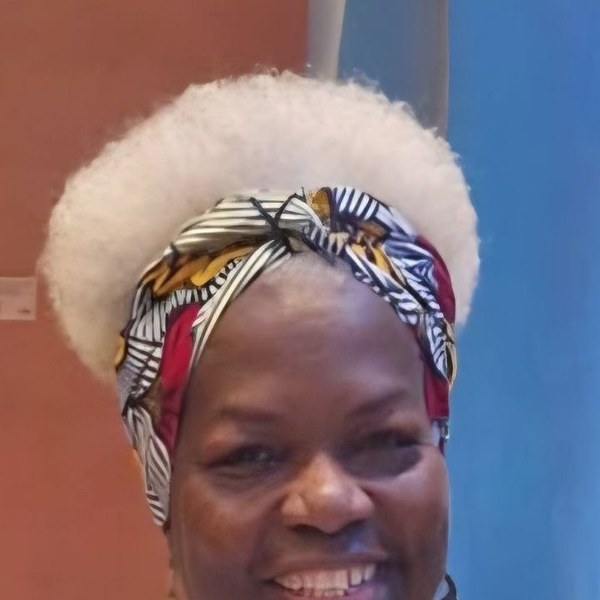
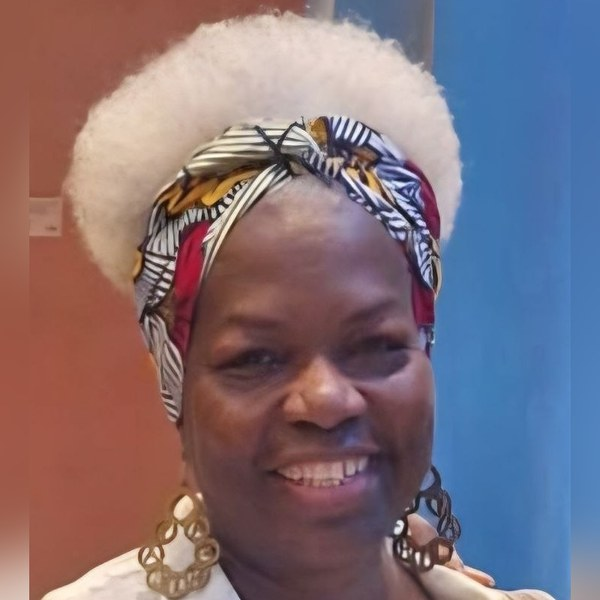
fix: Pam headshot crop (padded to full head), balance founder bio lengths

diff --git a/src/app/(marketing)/about/page.tsx b/src/app/(marketing)/about/page.tsx
@@ -27,8 +27,8 @@ const founders = [
     role: "Co-Founder & Director",
     photo: "/team/pam-rowe.jpg",
     paragraphs: [
-      "Pam Rowe is a leadership adviser, facilitator and organisational development specialist with more than three decades of experience supporting senior leaders, boards and organisations to strengthen leadership, culture and decision-making in complex systems. Her work spans public services, safeguarding partnerships, education and community organisations across the UK.",
-      "An author, she co-founded ADI with a clear conviction that Black professionals deserve developmental spaces that recognise the realities they navigate. Through ADI she works with mid-to-senior leaders on identity-level leadership: distinguishing what belongs to them from what belongs to the systems they operate within, and developing the self-trust, steadiness and authority to lead well.",
+      "Pam Rowe is a leadership adviser, facilitator and organisational development specialist with more than three decades of experience supporting senior leaders, boards and organisations in complex systems, across public services, safeguarding partnerships, education and community organisations in the UK.",
+      "An author, she co-founded ADI with a clear conviction that Black professionals deserve developmental spaces that recognise the realities they navigate. She works with mid-to-senior leaders on identity-level leadership: distinguishing what belongs to them from what belongs to the system.",
     ],
   },
   {
@@ -37,7 +37,7 @@ const founders = [
     photo: "/team/marcia-daigo.jpg",
     paragraphs: [
       "Marcia Daigo is an executive leadership coach, organisational development specialist and published author with over fifteen years' experience across the NHS, public sector and voluntary sector. She partners with senior leaders and leadership teams to navigate complexity, strengthen leadership identity and deliver sustainable organisational change.",
-      "Her coaching goes beyond confidence-building to identity-level development: helping leaders recognise the patterns in how they lead, navigate complex relational and organisational dynamics, and translate insight into purposeful, values-driven action within their systems.",
+      "Her coaching goes beyond confidence-building to identity-level development: helping leaders recognise the patterns in how they lead, navigate complex relational and organisational dynamics, and translate insight into purposeful, values-driven action within their systems and their own lives.",
     ],
   },
 ];

diff --git a/src/lib/event-config.ts b/src/lib/event-config.ts
@@ -52,7 +52,7 @@ export const EVENT = {
       name: "Pam Rowe",
       role: "Co-founder, ADI · Leadership adviser and coach",
       photo: "/team/pam-rowe.jpg",
-      bio: "Thirty years advising senior leaders and boards across public services, safeguarding and education. Pam has sat with Black professionals at exactly this point — the appraisal that turns into an ambush, the restructure, the slow walk to the door — and she has been there herself.",
+      bio: "Thirty years advising senior leaders and boards across public services, safeguarding and education. Pam has sat with Black professionals at exactly this point — the ambush appraisal, the restructure, the slow walk to the door — and has been there herself.",
       testimonial: {
         quote: "Through her balance of lived experience, wisdom, challenge and support, she had a transformative impact on me. The most significant shift has been in my self-esteem.",
         name: "Georgia Chimbani",
@@ -63,7 +63,7 @@ export const EVENT = {
       name: "Marcia Daigo",
       role: "Co-founder, ADI · Executive coach and author",
       photo: "/team/marcia-daigo.jpg",
-      bio: "Executive coach and published author, fifteen years across the NHS and public sector. Marcia works with leaders who have done everything right and still find themselves squeezed: recognise the pattern, fortify yourself before you need to.",
+      bio: "Executive coach and published author, fifteen years across the NHS and public sector. Marcia works with leaders who have done everything right and still find themselves squeezed: name the pattern, fortify yourself before you need to, act on your own terms.",
       testimonial: {
         quote: "Marcia is very astute and quickly gets to the heart of issues. She encourages you to trust your instincts and recognise that you already hold the answers.",
         name: "Meghan Zinkewich-Peotti",
